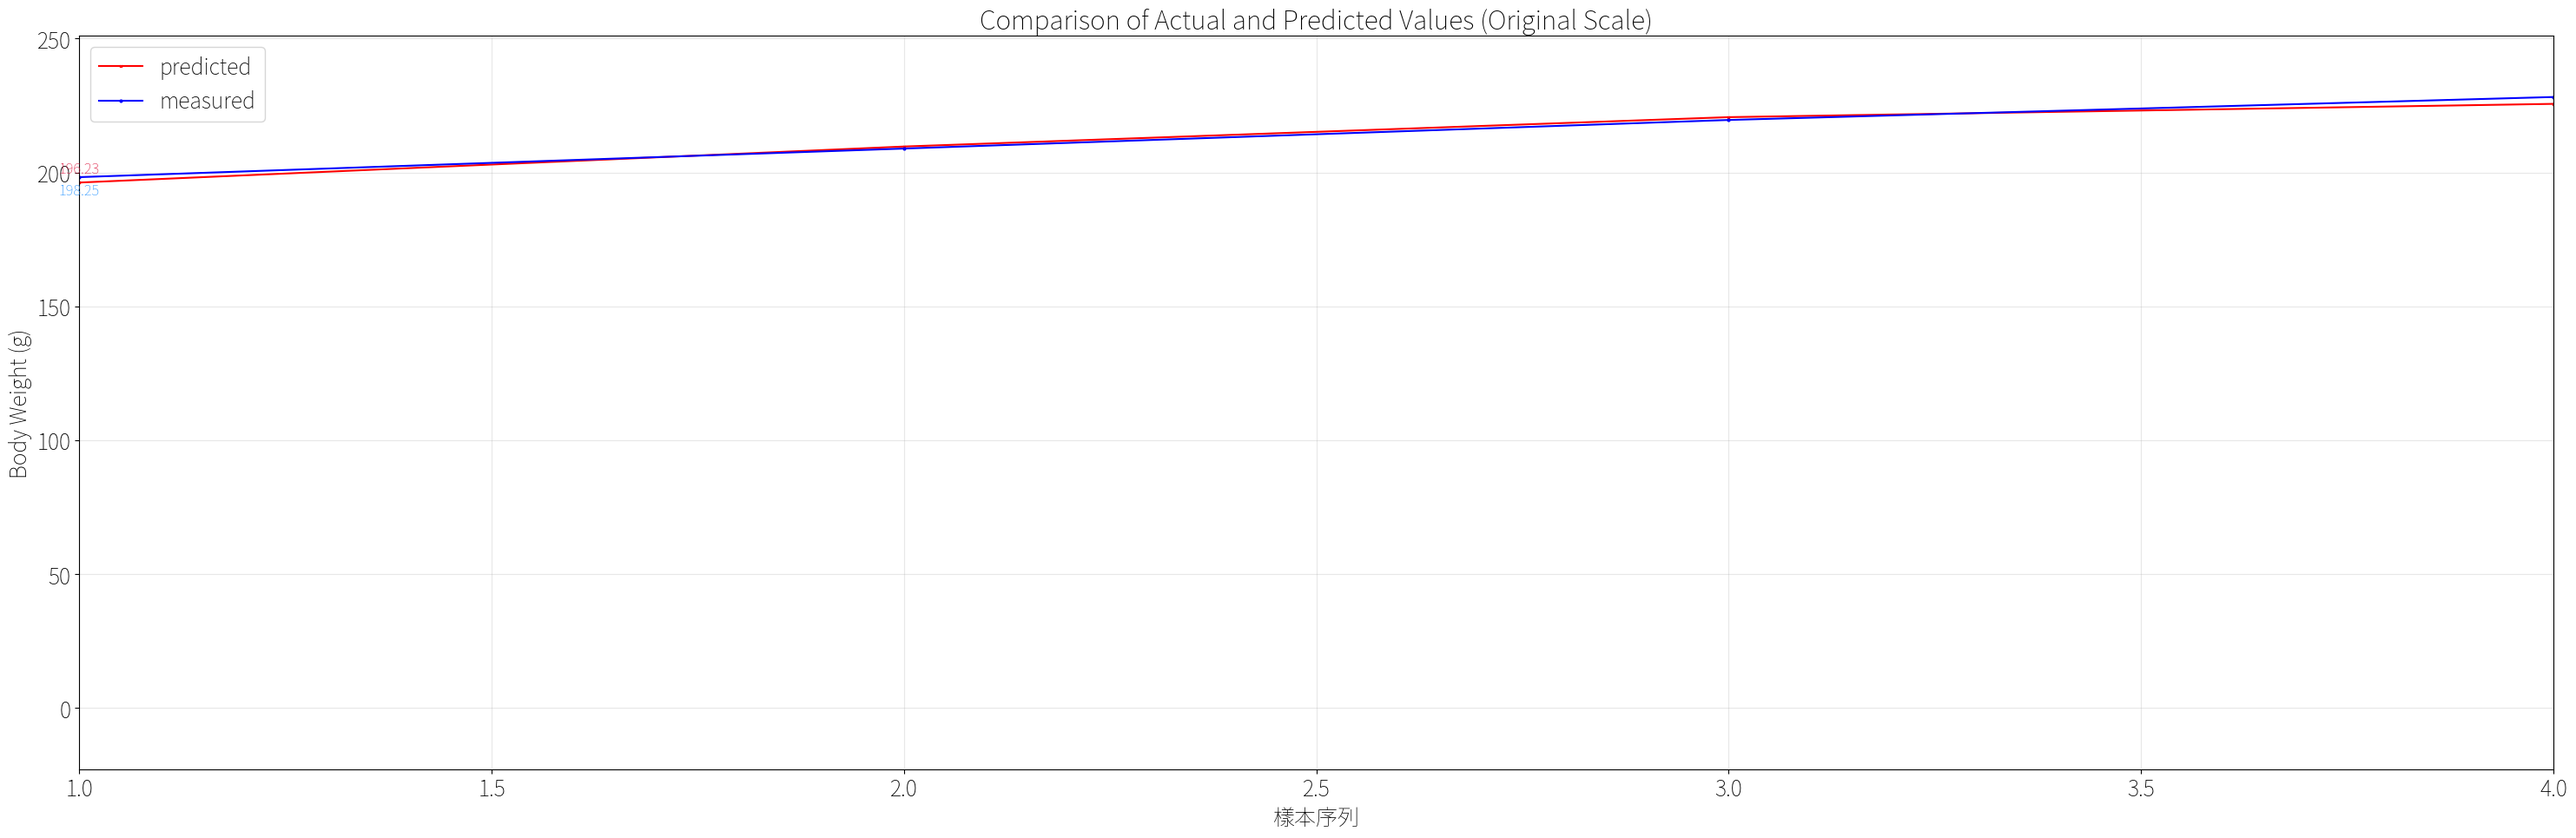
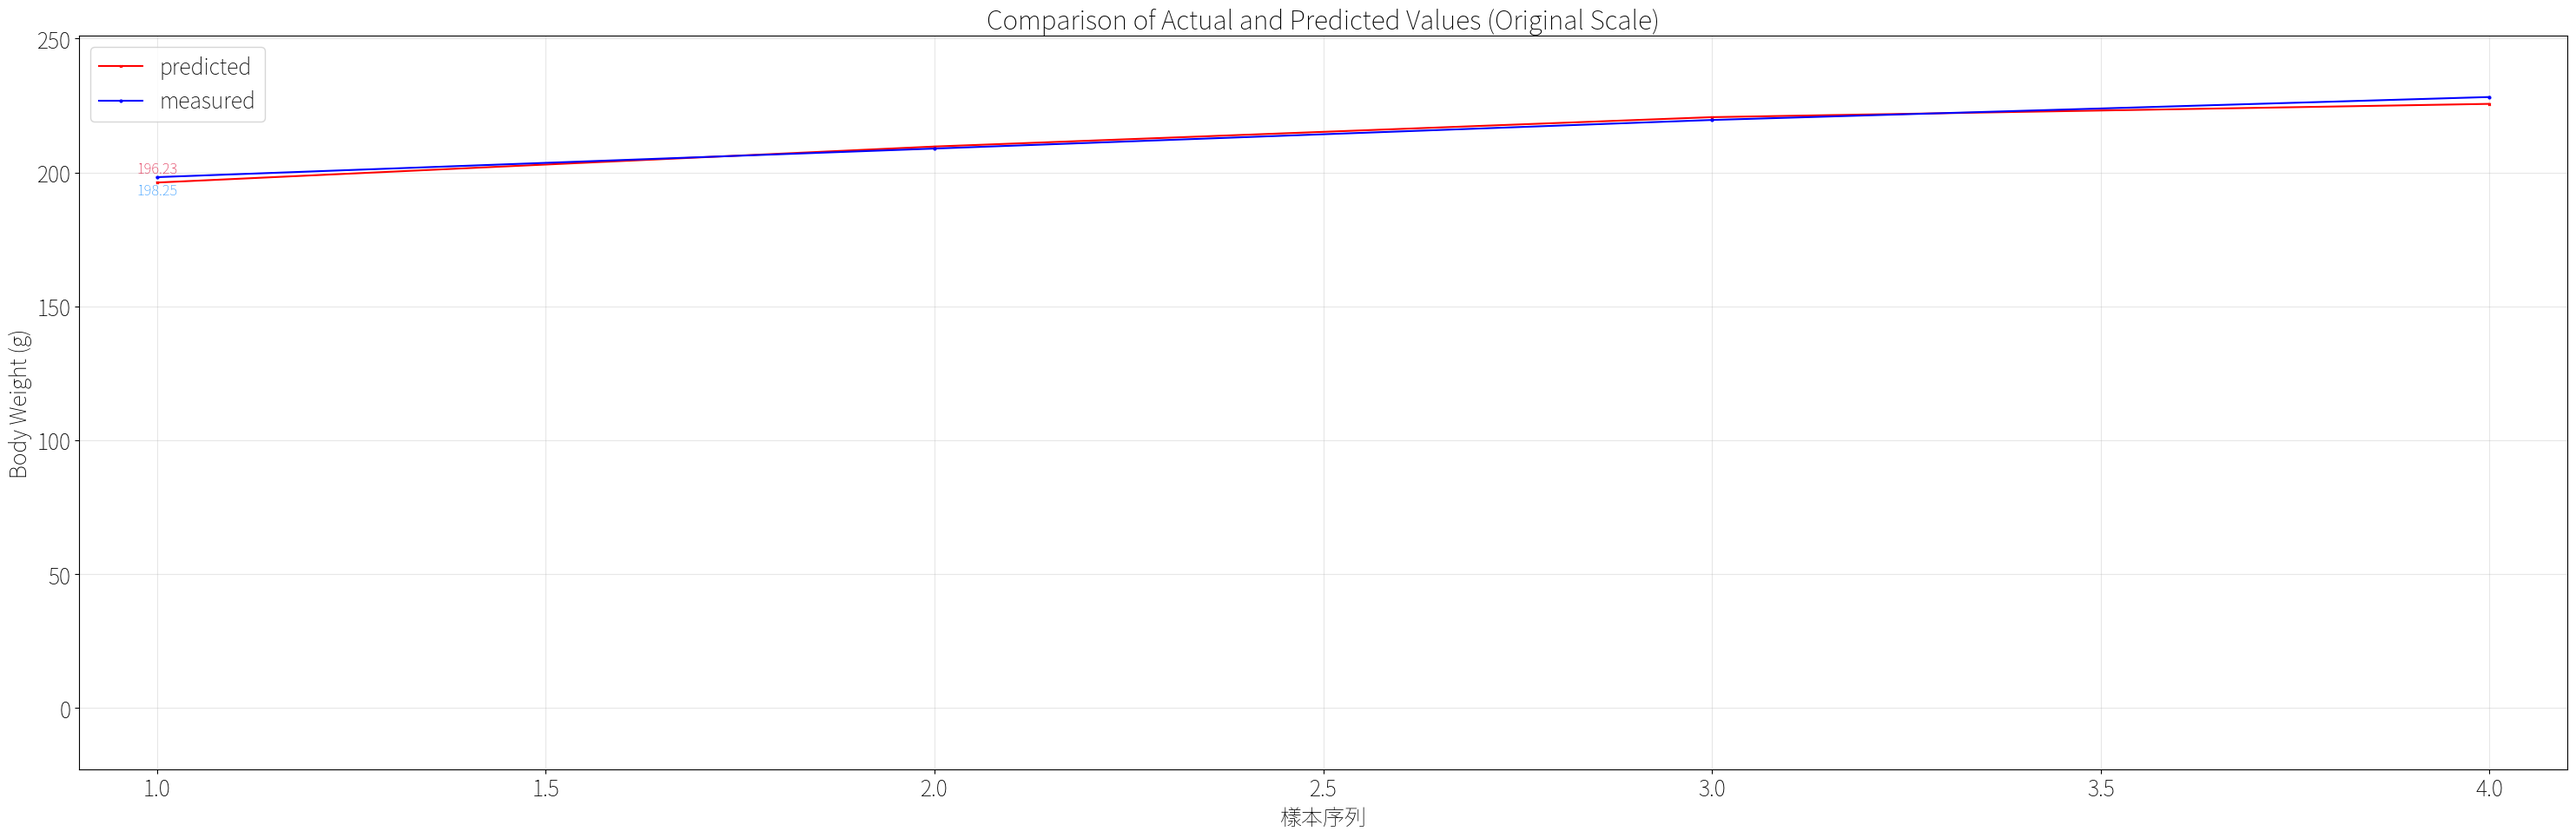
2026/07/08 "fix: refine Stage A prediction plot x-axis padding"

diff --git a/utils/save.py b/utils/save.py
@@ -112,9 +112,9 @@ def save_prediction_plot(y_test_time: np.array, y_pred_test_time: np.array, out_
 
     plt.ylim(y_min - margin, y_max + margin) # -- 原本方式 # plt.ylim(0, 1) # 設置y軸的顯示範圍為0到1。
     if len(x) > 1:
-        plt.xlim(1, len(x)) # -- 原本方式 # plt.xlim(0, len(y_test_time)) # 設置x軸範圍，從0到實際數據的長度。
+        plt.xlim(0.9, len(x) + 0.1) # -- 原本方式 # 設置x軸範圍，左右保留一點空間。
     elif len(x) == 1:
-        plt.xlim(0.5, 1.5) # -- 原本方式 # plt.xlim(0, len(y_test_time)) # 設置x軸範圍，從0到實際數據的長度。
+        plt.xlim(0.9, 1.1) # -- 原本方式 # 設置x軸範圍，左右保留一點空間。
 
     plt.title(title) # title = "Comparison of Actual and Predicted Values"
     plt.ylabel(y_label) # plt.ylabel('Value') # 設置y軸標籤。
